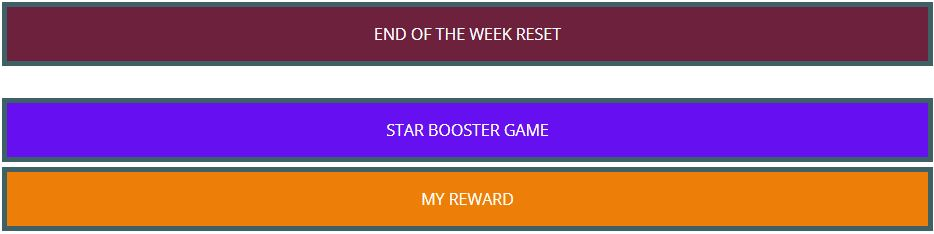
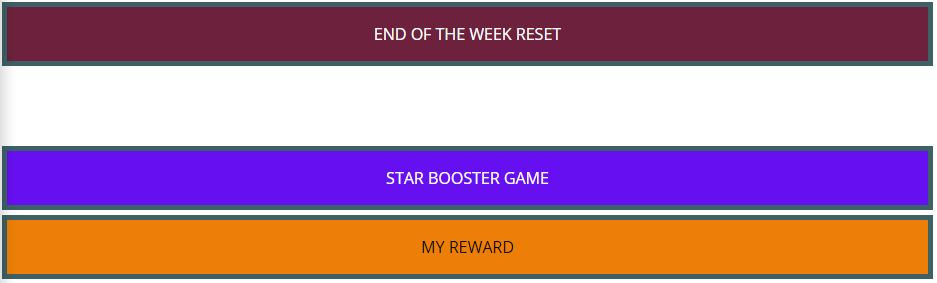
game page reward button update colour for accessibility

diff --git a/assets/css/style.css b/assets/css/style.css
@@ -481,7 +481,7 @@ footer {
 
 .reward-button-two {
     display: block;
-    color: white;
+    color: black;
     text-align: center;
     border: 5px solid #3E6165;
     padding: 1rem;
